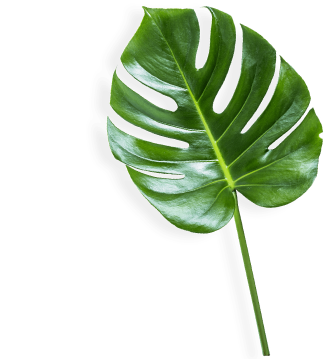
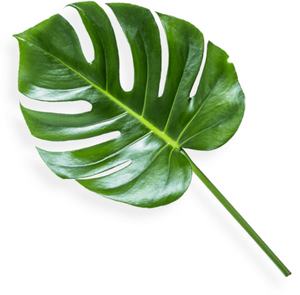
feat: add footer stylings

diff --git a/pages/main/style.css b/pages/main/style.css
@@ -223,7 +223,7 @@ header {
 .arrows{
   display: flex;
   justify-content: space-between;
-  margin: 0px 180px;
+  margin: 0px 140px;
   position: relative;
   top: -500px
 }
@@ -383,6 +383,7 @@ min-height: 391px;
 position: relative;
 padding: 15px 15px 19px 16px;
 margin: 5px;
+margin-bottom: 21px;
 border-radius: 20px;
 }
 .feedback-block::after {
@@ -449,10 +450,9 @@ margin-left: 10px;
 }
 .scroll-bar{
 	margin:auto;
-	margin-top: 15x;
 	overflow-x: scroll;
 	scrollbar-width: thin;
-	margin-bottom: 31px;
+	margin-bottom: 53px;
 	width: 40%;
 	display: flex;
  position: relative;
@@ -479,6 +479,7 @@ margin-left: 10px;
 }
 .invisible-part-scrollbar{
 	color:#FFF;
+    height: 0px;
 }
 
 .leave-feedback-btn{
@@ -506,13 +507,13 @@ align-items: center;
 .leaf-right-border {
 	display: flex;
 	position: relative;
-	justify-content: end;
-	top: -30px;
-	left: 90px;
-	height: 213px;
+    justify-content: end;
+	top: -40px;
+    height: 170px;
 }
 .leaf-right-border img{
-	height: 395.45px;
+    height: 295.45px;
+    transform: rotate(35deg);
 }
 footer{
 	position: relative;
@@ -520,7 +521,6 @@ footer{
 	background: #111115;
 	height: 402px;
     padding: 41px 220px 0px 220px;
-    margin-top: 20px;
 }
 .footer-grid img{
     width: 82px;
@@ -586,9 +586,9 @@ footer .social-medias{
     list-style: none;
     padding-left: 0px;
 }
-footer ul li{
+footer .social-medias-li{
     height: 26px;
-    margin-bottom: 10px;
+
 }
 footer .sm-name{
 font-family: 'Roboto';
@@ -604,7 +604,7 @@ top: -5px;
 }
 footer .nav-ul {
     position: relative;
-    top: -70px;
+    top: -65px;
 }
 footer .nav-ul .footer-designed-by {
     margin-left: 230px;
@@ -618,5 +618,9 @@ footer .nav-ul .footer-designed-by {
     display: flex;
     position: relative;
     justify-content: end;
-    top: -23px;
+    top: -18px;
+}
+.social-medias-li {
+    height: 26px;
+    margin: 5px 0px 5px 0px;
 }

diff --git a/pages/main/index.html b/pages/main/index.html
@@ -137,10 +137,10 @@
     </div>
     <div class="donate-footer-btn"><a href="#">donate for volunteers</a></div>
     <ul class="social-medias">
-        <li> <img src="/assets/icons/facebook.png" alt="facebook-icon" width="26"><span class="sm-name">Facebook</span></li>
-        <li> <img src="/assets/icons/twitter.png" alt="facebook-icon" width="26"><span class="sm-name">Twitter</span></li>
-        <li> <img src="/assets/icons/instagram.png" alt="facebook-icon" width="26"><span class="sm-name">Instagram</span></li>
-        <li> <img src="/assets/icons/youtube.png" alt="facebook-icon" width="26"><span class="sm-name">YouTube</span></li>
+        <li class="social-medias-li"> <img src="/assets/icons/facebook.png" alt="facebook-icon" width="26"><span class="sm-name">Facebook</span></li>
+        <li class="social-medias-li"> <img src="/assets/icons/twitter.png" alt="facebook-icon" width="26"><span class="sm-name">Twitter</span></li>
+        <li class="social-medias-li"> <img src="/assets/icons/instagram.png" alt="facebook-icon" width="26"><span class="sm-name">Instagram</span></li>
+        <li class="social-medias-li"> <img src="/assets/icons/youtube.png" alt="facebook-icon" width="26"><span class="sm-name">YouTube</span></li>
     </ul>
     <ul class="nav-ul">
         <li class="active-nav">About</li>
